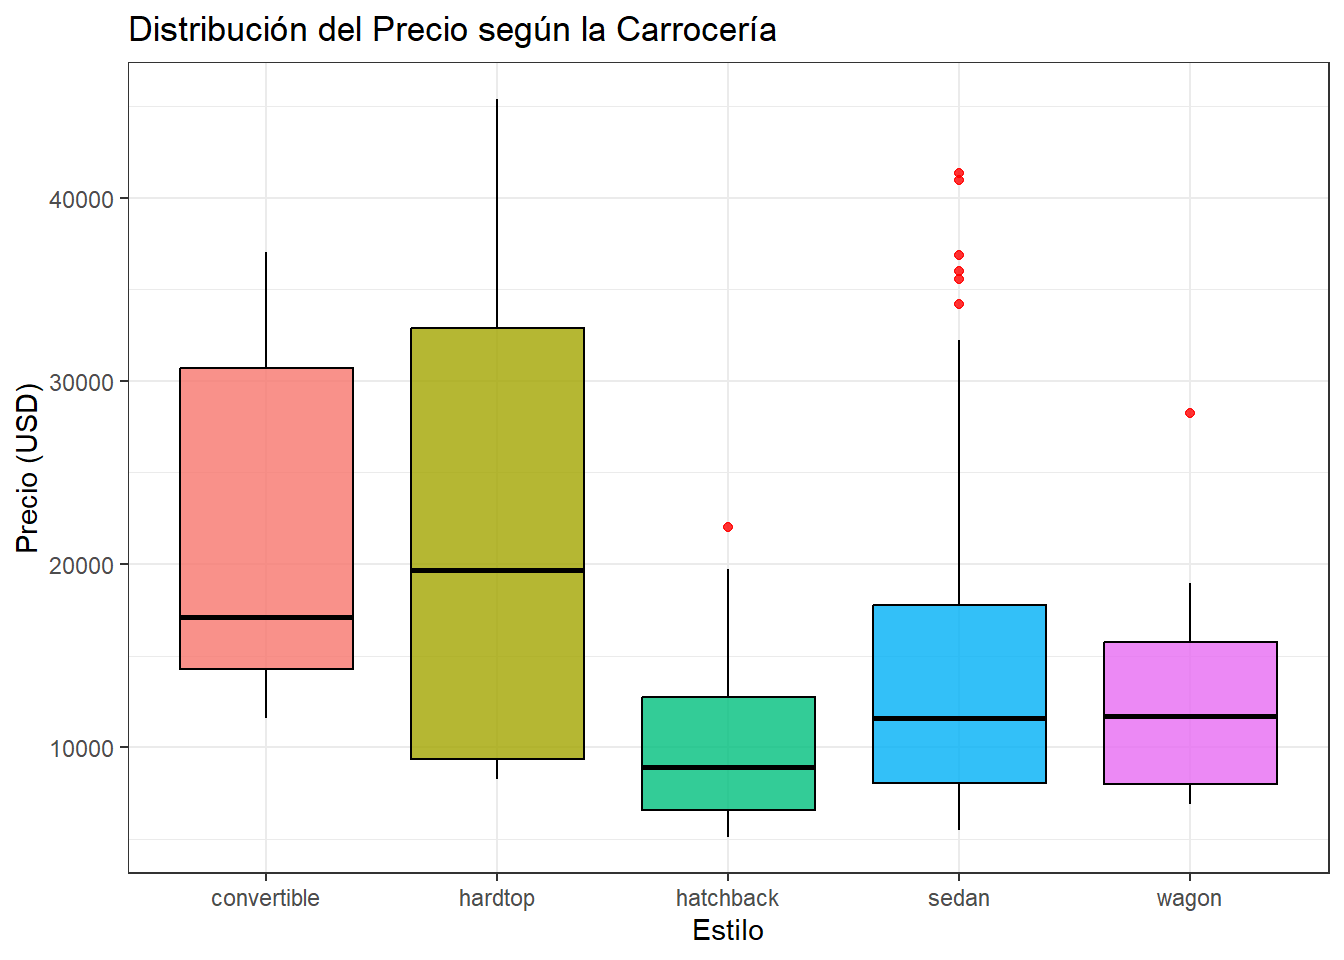
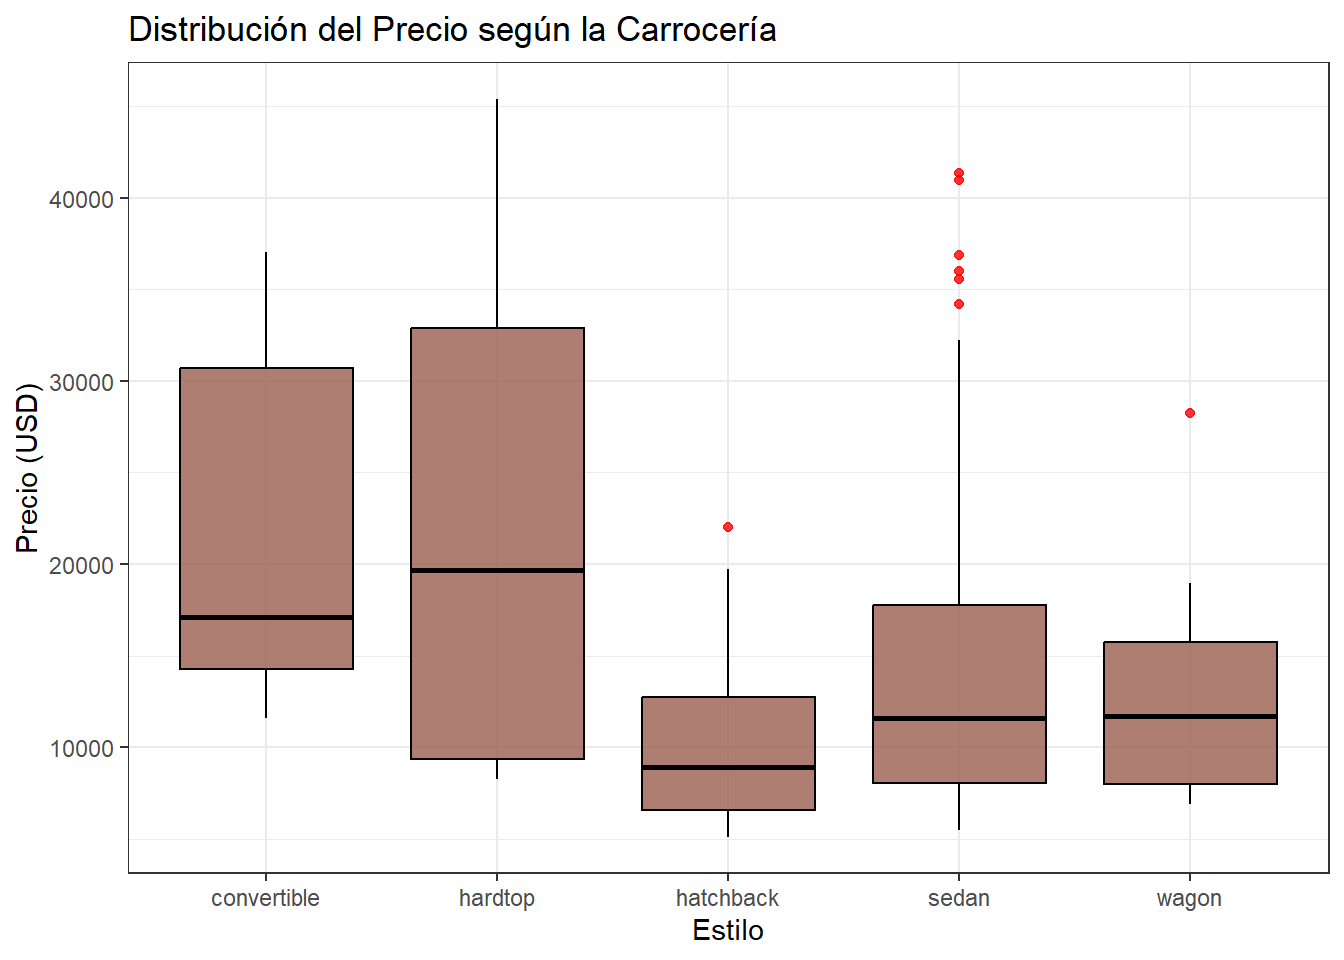
01-intro commit 3"

Changed region(s): [[0.125, 0.3438, 0.4375, 0.8125], [0.4688, 0.625, 0.7812, 0.8438], [0.8125, 0.6562, 0.9688, 0.8125]]

diff --git a/docs/intro.html b/docs/intro.html
@@ -294,7 +294,7 @@ code span.wa { color: #60a0b0; font-weight: bold; font-style: italic; } /* Warni
 ##   ..   X25 = col_double(),
 ##   ..   X26 = col_character()
 ##   .. )
-##  - attr(*, &quot;problems&quot;)=&lt;pointer: 0x000002442c1ffda0&gt;</code></pre>
+##  - attr(*, &quot;problems&quot;)=&lt;pointer: 0x0000025b712f7cf0&gt;</code></pre>
 <p>Veamos si hay datos faltantes</p>
 <div class="sourceCode" id="cb9"><pre class="sourceCode r"><code class="sourceCode r"><span id="cb9-1"><a href="#cb9-1" tabindex="-1"></a>colSums</span></code></pre></div>
 <pre><code>## function (x, na.rm = FALSE, dims = 1L) 
@@ -316,7 +316,7 @@ code span.wa { color: #60a0b0; font-weight: bold; font-style: italic; } /* Warni
 ##     else names(z) &lt;- dimnames(x)[[dims + 1L]]
 ##     z
 ## }
-## &lt;bytecode: 0x000002442d192d28&gt;
+## &lt;bytecode: 0x0000025b73238270&gt;
 ## &lt;environment: namespace:base&gt;</code></pre>
 <div class="sourceCode" id="cb11"><pre class="sourceCode r"><code class="sourceCode r"><span id="cb11-1"><a href="#cb11-1" tabindex="-1"></a>Automobile[Automobile <span class="sc">==</span> <span class="st">&quot;?&quot;</span>] <span class="ot">&lt;-</span> <span class="cn">NA</span></span>
 <span id="cb11-2"><a href="#cb11-2" tabindex="-1"></a></span>
@@ -527,11 +527,10 @@ code span.wa { color: #60a0b0; font-weight: bold; font-style: italic; } /* Warni
 <h2><span class="header-section-number">1.16</span> INTERPRETACION DE ESA TABLA <sup></sup>^<a href="#interpretacion-de-esa-tabla-5" class="anchor-section" aria-label="Anchor link to header"></a></h2>
 <div class="sourceCode" id="cb28"><pre class="sourceCode r"><code class="sourceCode r"><span id="cb28-1"><a href="#cb28-1" tabindex="-1"></a><span class="co"># Relación entre estilo de carrocería y precio</span></span>
 <span id="cb28-2"><a href="#cb28-2" tabindex="-1"></a>df <span class="sc">%&gt;%</span></span>
-<span id="cb28-3"><a href="#cb28-3" tabindex="-1"></a>  <span class="fu">ggplot</span>(<span class="fu">aes</span>(<span class="at">x =</span> <span class="st">`</span><span class="at">body-style</span><span class="st">`</span>, <span class="at">y=</span> price, <span class="at">fill =</span> <span class="st">`</span><span class="at">body-style</span><span class="st">`</span>))<span class="sc">+</span></span>
-<span id="cb28-4"><a href="#cb28-4" tabindex="-1"></a>  <span class="fu">geom_boxplot</span>(<span class="at">color =</span> <span class="st">&quot;black&quot;</span>, <span class="at">outlier.color =</span> <span class="st">&#39;red&#39;</span>, <span class="at">alpha =</span> <span class="fl">0.8</span>) <span class="sc">+</span></span>
+<span id="cb28-3"><a href="#cb28-3" tabindex="-1"></a>  <span class="fu">ggplot</span>(<span class="fu">aes</span>(<span class="at">x =</span> <span class="st">`</span><span class="at">body-style</span><span class="st">`</span>, <span class="at">y =</span> price)) <span class="sc">+</span></span>
+<span id="cb28-4"><a href="#cb28-4" tabindex="-1"></a>  <span class="fu">geom_boxplot</span>(<span class="at">fill =</span> <span class="st">&quot;#9b5e4f&quot;</span>, <span class="at">color =</span> <span class="st">&quot;black&quot;</span>, <span class="at">outlier.color =</span> <span class="st">&#39;red&#39;</span>, <span class="at">alpha =</span> <span class="fl">0.8</span>) <span class="sc">+</span></span>
 <span id="cb28-5"><a href="#cb28-5" tabindex="-1"></a>  <span class="fu">labs</span>(<span class="at">title =</span> <span class="st">&quot;Distribución del Precio según la Carrocería&quot;</span>, <span class="at">x =</span> <span class="st">&quot;Estilo&quot;</span>, <span class="at">y =</span> <span class="st">&quot;Precio (USD)&quot;</span>) <span class="sc">+</span></span>
-<span id="cb28-6"><a href="#cb28-6" tabindex="-1"></a>  <span class="fu">theme_bw</span>() <span class="sc">+</span></span>
-<span id="cb28-7"><a href="#cb28-7" tabindex="-1"></a>  <span class="fu">theme</span>(<span class="at">legend.position =</span> <span class="st">&quot;none&quot;</span>)</span></code></pre></div>
+<span id="cb28-6"><a href="#cb28-6" tabindex="-1"></a>  <span class="fu">theme_bw</span>()</span></code></pre></div>
 </div>
 <div id="section-6" class="section level2 hasAnchor" number="1.17">
 <h2><span class="header-section-number">1.17</span> <img src="bookdown-demo_files/figure-html/unnamed-chunk-5-1.png" alt="" width="672" /><a href="#section-6" class="anchor-section" aria-label="Anchor link to header"></a></h2>
